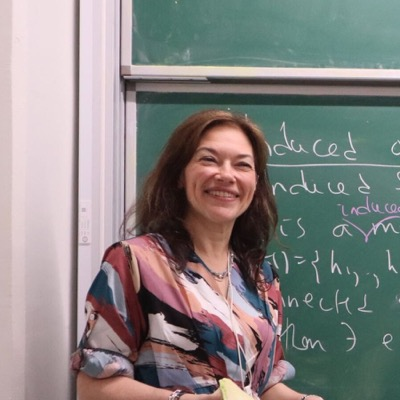
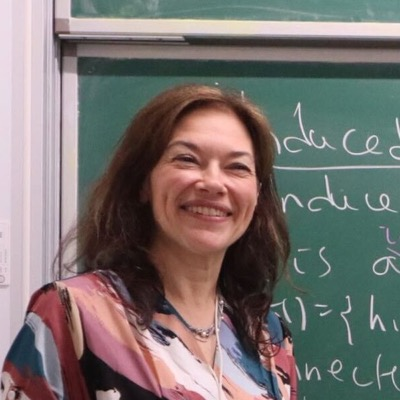
List speakers alphabetically and tighten Chudnovsky photo crop

diff --git a/2027/en/index.md b/2027/en/index.md
@@ -22,17 +22,17 @@ description: "17-21 August 2027, Seoul, Korea"
 
 <div class="speaker-cards speaker-cards--photo">
   <div class="speaker-card speaker-card--photo">
-    <img src="/assets/lokshtanov.jpg" alt="Daniel Lokshtanov" class="speaker-card__photo" />
-    <div class="speaker-card__info">
-      <h3>Daniel Lokshtanov</h3>
-      <p>University of California, Santa Barbara</p>
-    </div>
-  </div>
-  <div class="speaker-card speaker-card--photo">
     <img src="/assets/chudnovsky.jpg" alt="Maria Chudnovsky" class="speaker-card__photo" />
     <div class="speaker-card__info">
       <h3>Maria Chudnovsky</h3>
       <p>Princeton University</p>
+    </div>
+  </div>
+  <div class="speaker-card speaker-card--photo">
+    <img src="/assets/lokshtanov.jpg" alt="Daniel Lokshtanov" class="speaker-card__photo" />
+    <div class="speaker-card__info">
+      <h3>Daniel Lokshtanov</h3>
+      <p>University of California, Santa Barbara</p>
     </div>
   </div>
 </div>

diff --git a/2027/index.md b/2027/index.md
@@ -22,17 +22,17 @@ description: "17-21 August 2027, Seoul, Korea"
 
 <div class="speaker-cards speaker-cards--photo">
   <div class="speaker-card speaker-card--photo">
-    <img src="/assets/lokshtanov.jpg" alt="Daniel Lokshtanov" class="speaker-card__photo" />
-    <div class="speaker-card__info">
-      <h3>Daniel Lokshtanov</h3>
-      <p>University of California, Santa Barbara</p>
-    </div>
-  </div>
-  <div class="speaker-card speaker-card--photo">
     <img src="/assets/chudnovsky.jpg" alt="Maria Chudnovsky" class="speaker-card__photo" />
     <div class="speaker-card__info">
       <h3>Maria Chudnovsky</h3>
       <p>Princeton University</p>
+    </div>
+  </div>
+  <div class="speaker-card speaker-card--photo">
+    <img src="/assets/lokshtanov.jpg" alt="Daniel Lokshtanov" class="speaker-card__photo" />
+    <div class="speaker-card__info">
+      <h3>Daniel Lokshtanov</h3>
+      <p>University of California, Santa Barbara</p>
     </div>
   </div>
 </div>

diff --git a/index.md b/index.md
@@ -21,7 +21,7 @@ description: "Browse the 2024, 2025, 2026, and 2027 summer school pages."
         <dt>날짜</dt>
         <dd>2027년 8월 17-21일</dd>
         <dt>연사</dt>
-        <dd>Daniel Lokshtanov (UC Santa Barbara), Maria Chudnovsky (Princeton University)</dd>
+        <dd>Maria Chudnovsky (Princeton University), Daniel Lokshtanov (UC Santa Barbara)</dd>
       </dl>
       <p>서울에서 열릴 2027 조합론 및 알고리듬 여름학교의 날짜와 연사가 확정되었습니다. 세부 장소와 등록 안내는 추후 공지됩니다.</p>
       <p><a class="year-card__link" href="/2027/">2027 페이지 보기</a></p>

diff --git a/en/index.md b/en/index.md
@@ -21,7 +21,7 @@ description: "Browse the 2024, 2025, 2026, and 2027 summer school pages."
         <dt>Date</dt>
         <dd>August 17-21, 2027</dd>
         <dt>Speakers</dt>
-        <dd>Daniel Lokshtanov (UC Santa Barbara), Maria Chudnovsky (Princeton University)</dd>
+        <dd>Maria Chudnovsky (Princeton University), Daniel Lokshtanov (UC Santa Barbara)</dd>
       </dl>
       <p>The dates and speakers for the 2027 Summer School on Combinatorics and Algorithms in Seoul are confirmed. The venue and registration details will be announced later.</p>
       <p><a class="year-card__link" href="/2027/en/">Open 2027 page</a></p>
